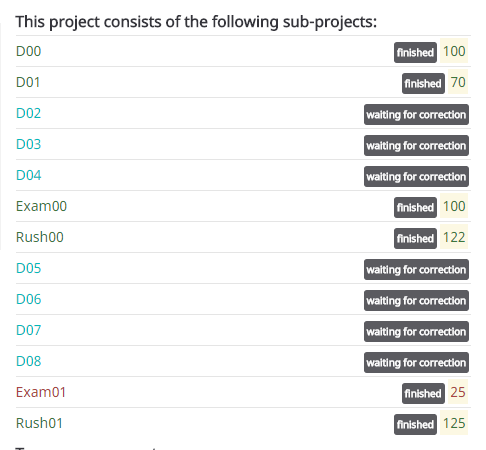
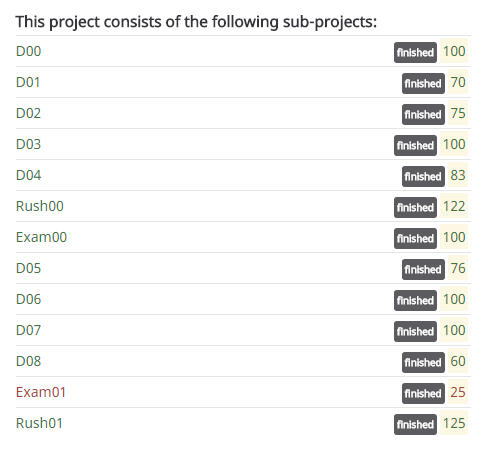
updated grades

diff --git a/README.md b/README.md
@@ -1,10 +1,8 @@
 # Piscine C++ , Apr 2015
 >>>>> #####2 week initiation to c++.
 
-#####Grade ``(tbd/125)`` ``(tbd/125)``
+#####Grade ``(116/100)`` ``(116/125)``
 --------  -----------------------
-
-<br>
 ![grades](./grades.png)
  
 <br><br><br><br><br><br><br><br>
